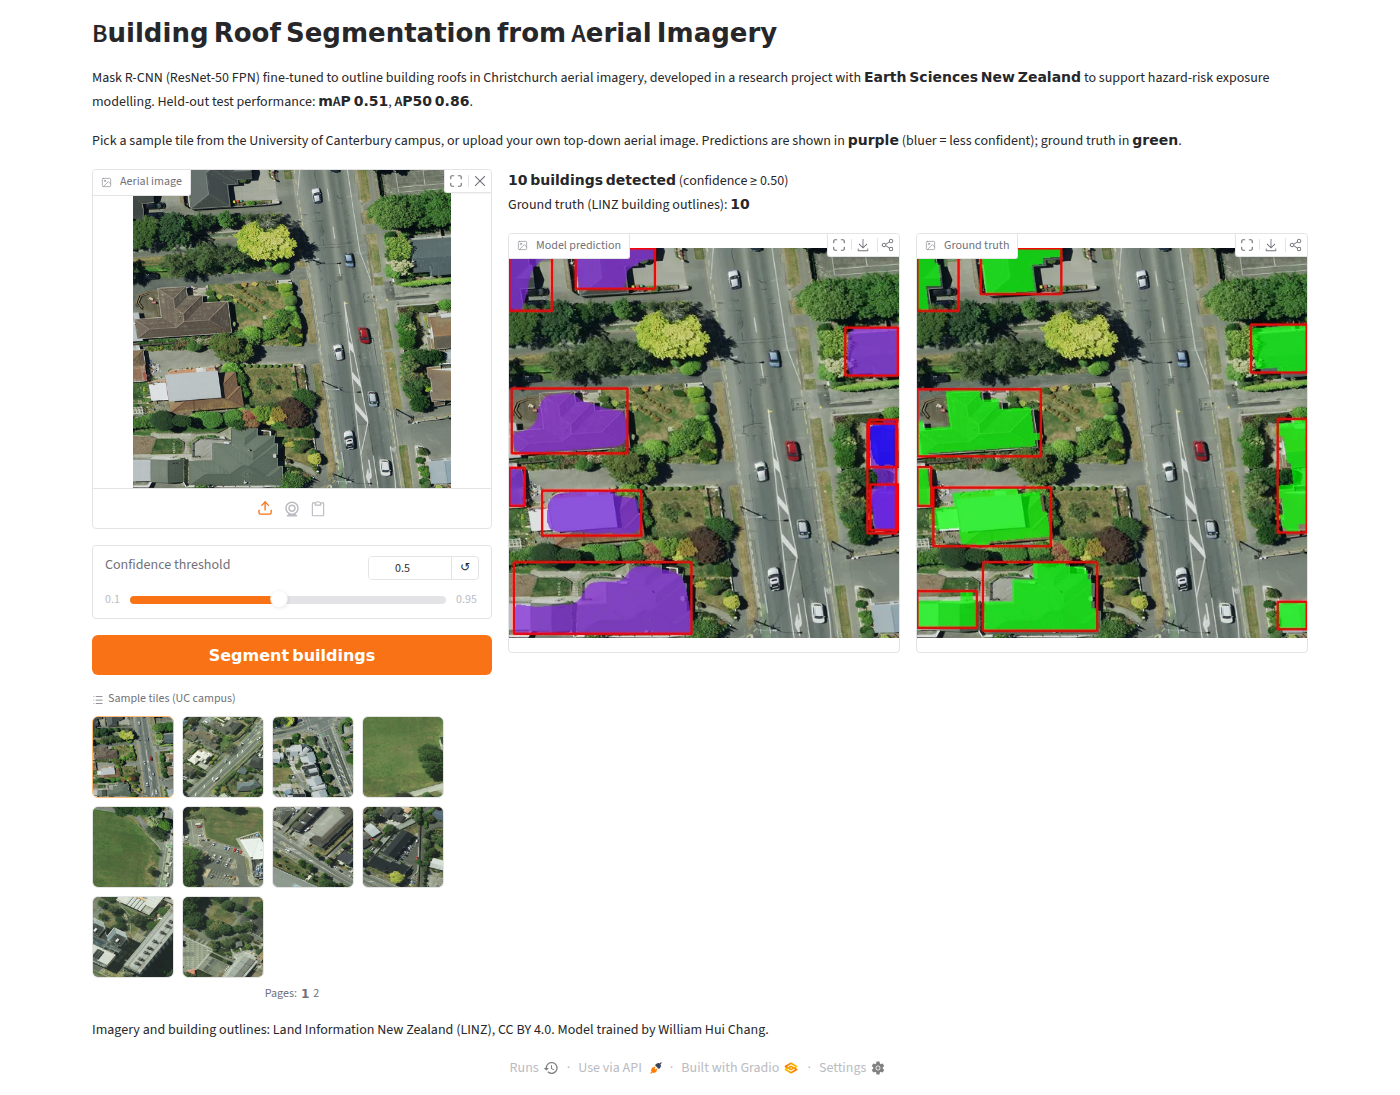
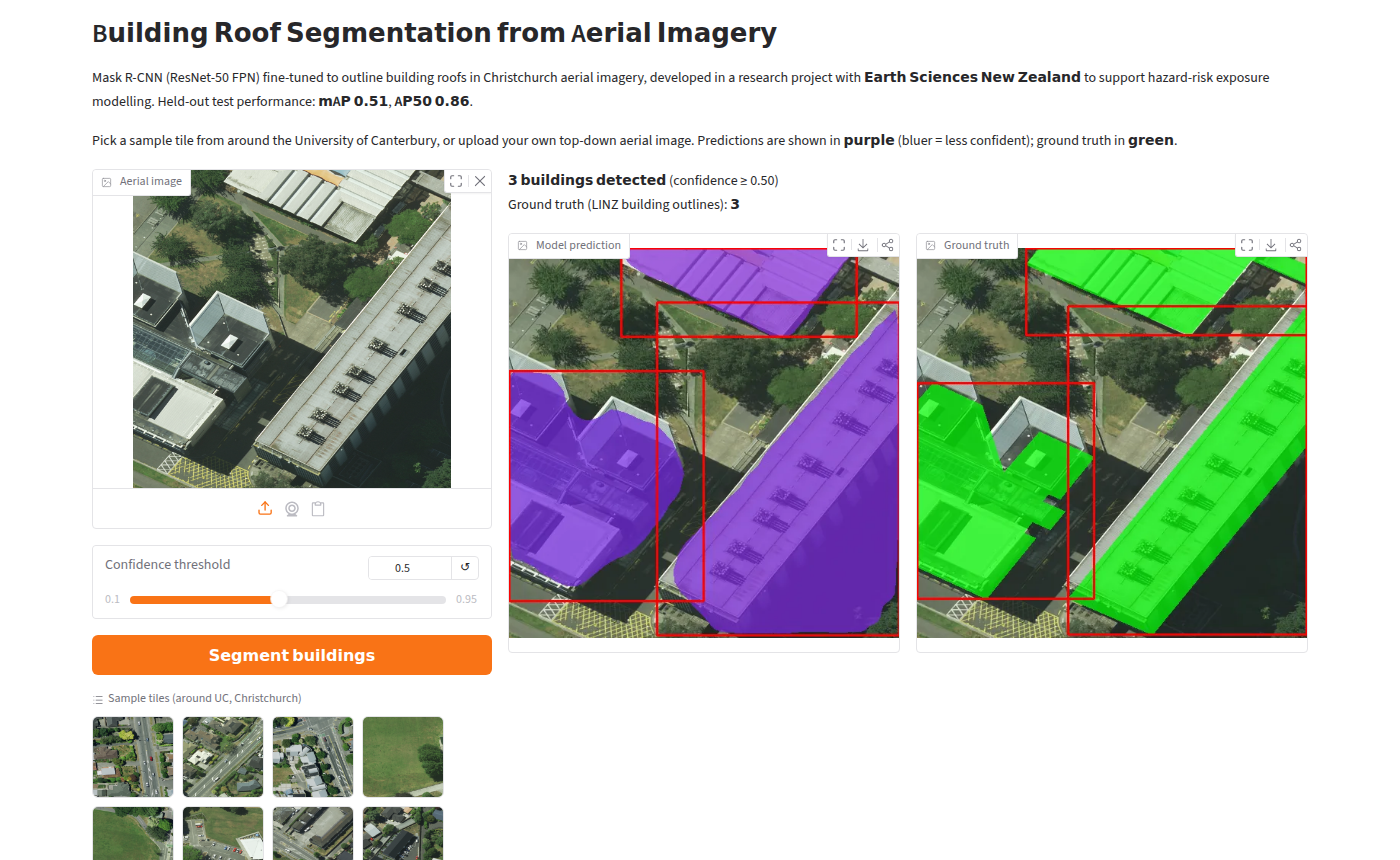
Add animated demo

diff --git a/README.md b/README.md
@@ -42,9 +42,9 @@ On the University of Canterbury campus, the model:
 
 ## Interactive demo
 
-![Demo screenshot](figures/demo_screenshot.png)
+![Demo in action](figures/demo.gif)
 
-Pick a sample tile or upload your own top-down aerial image, adjust the confidence threshold, and compare the prediction with the ground truth.
+*The Gradio app: pick a sample tile or upload your own top-down aerial image, adjust the confidence threshold, and compare the prediction with the ground truth. A hosted live version is coming soon; for now it runs locally.*
 
 ### Run it locally
 
@@ -67,7 +67,7 @@ Then open http://127.0.0.1:7860. It runs on CPU (about 2 seconds per tile) or GP
 app.py            Gradio web demo
 inference.py      model loading, prediction and drawing
 samples/          sample tiles and their ground-truth outlines
-figures/          result figures
+figures/          result figures and demo recording
 ```
 
 ## Credits
